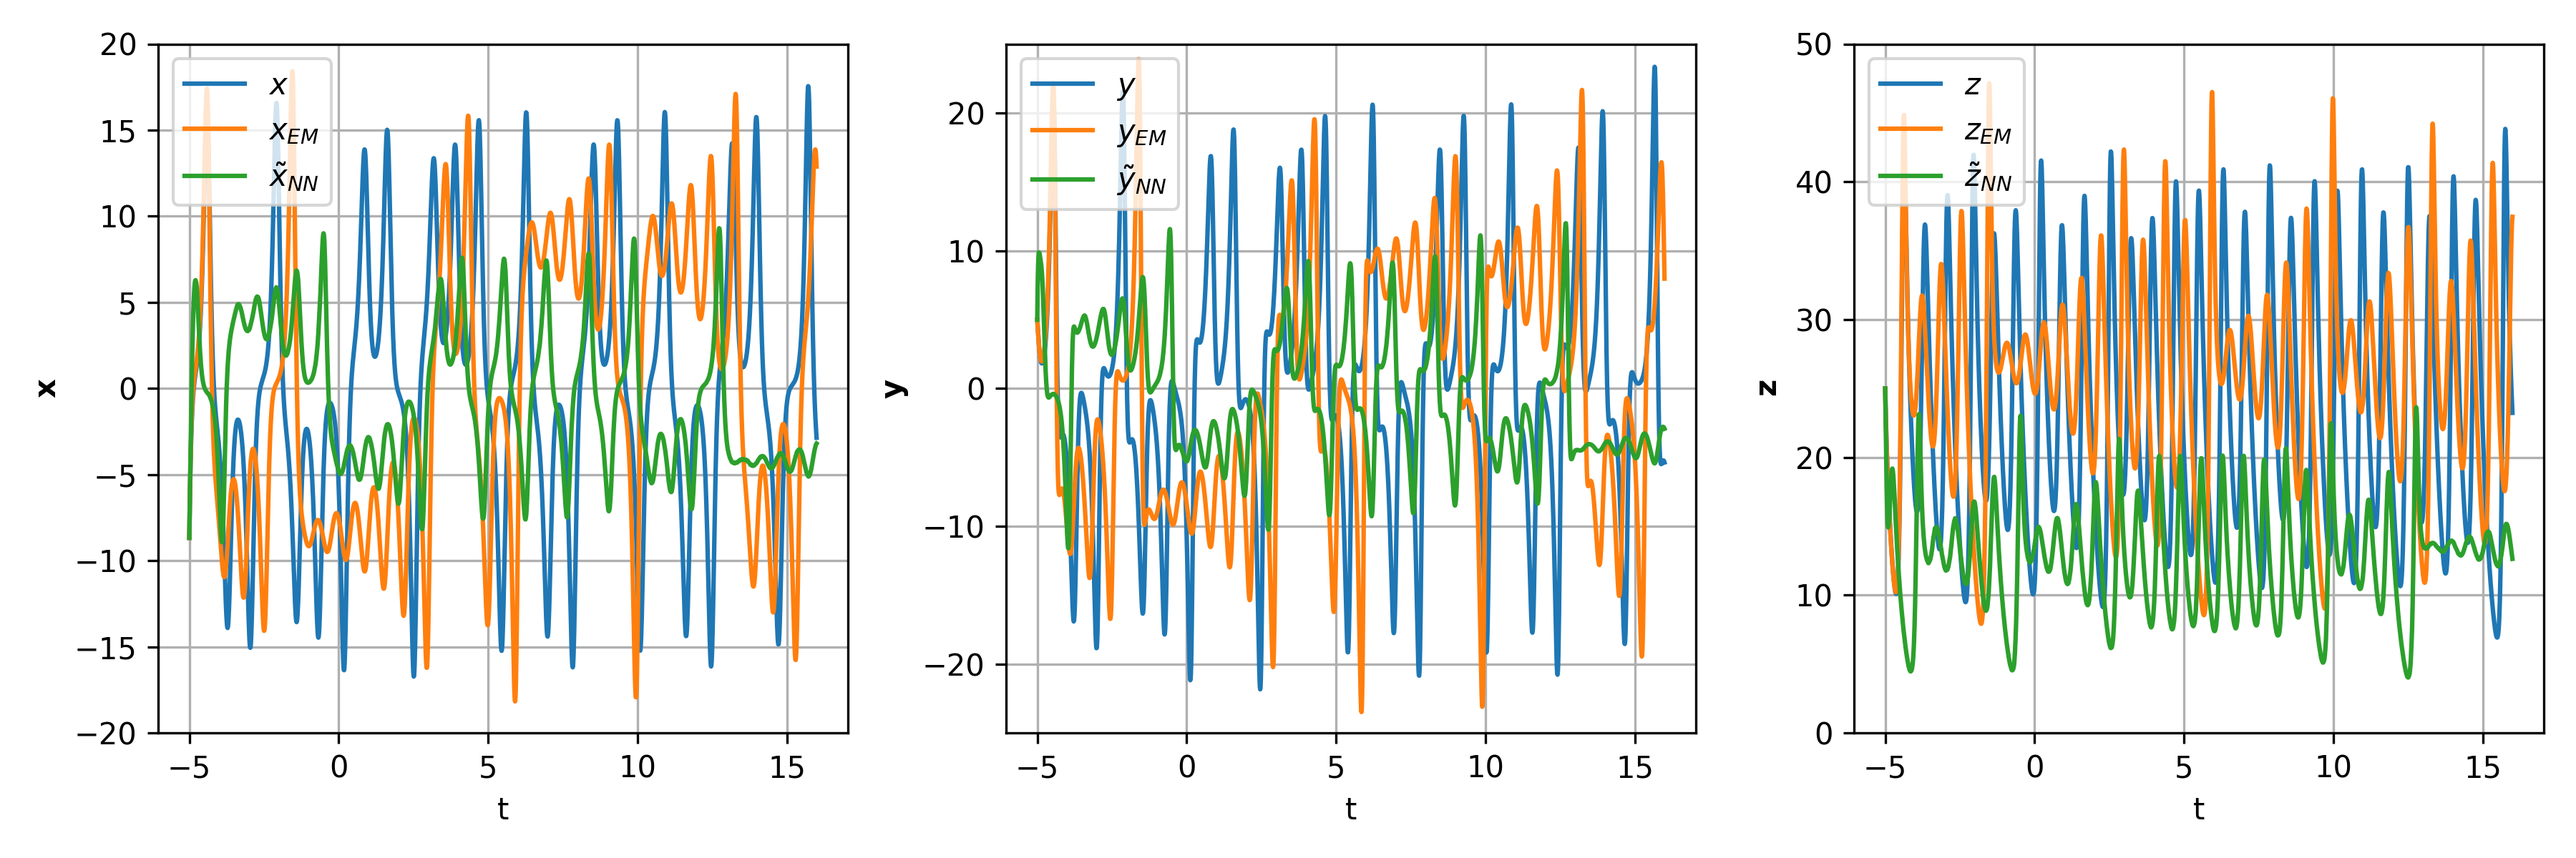
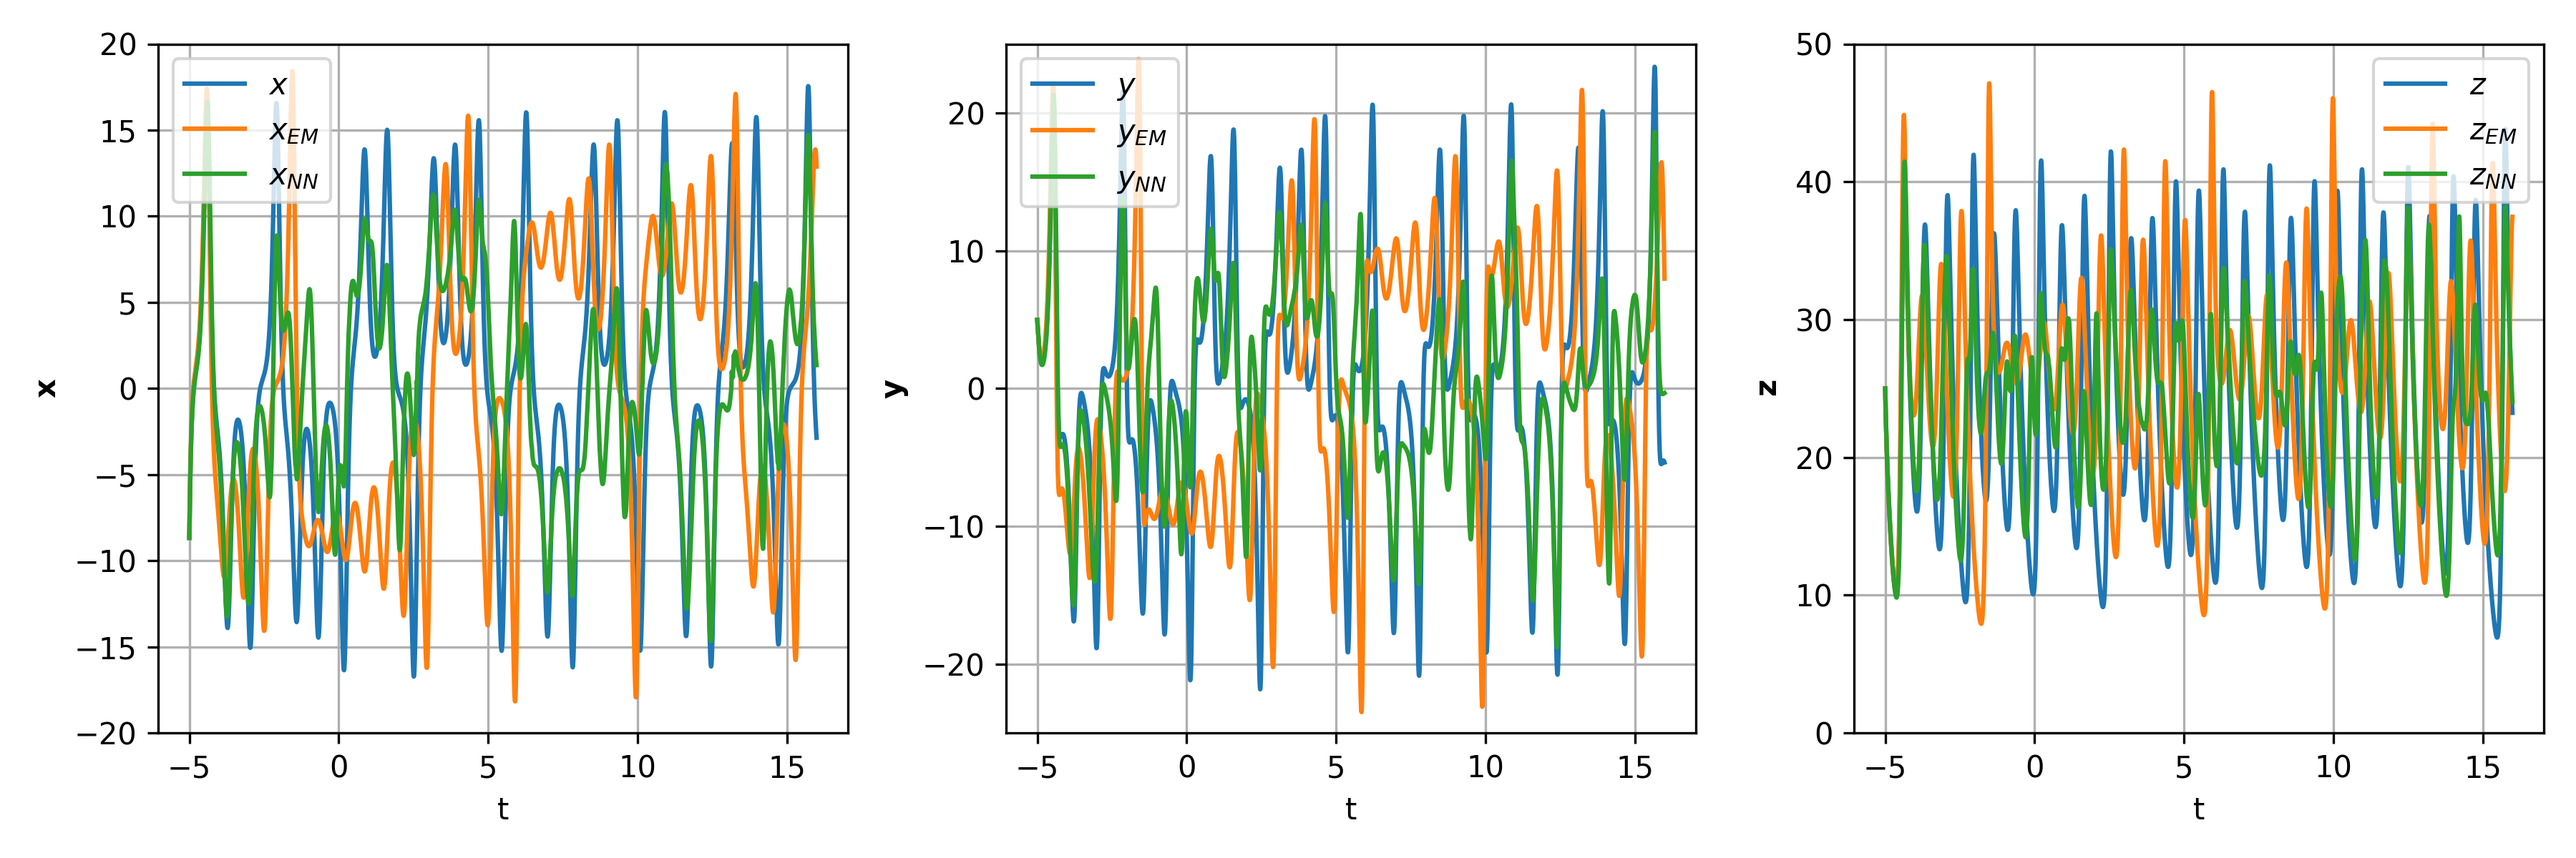
updated sample paths

Changed region(s): [[0.7156, 0.0617, 0.9956, 0.7708], [0.0622, 0.185, 0.3422, 0.7092], [0.4044, 0.185, 0.6533, 0.7092]]

diff --git a/diffusion-train-network.py b/diffusion-train-network.py
@@ -64,8 +64,8 @@ t = lorenz['t']
 dt = t[1]-t[0]
 
 # SPECIFY IF YOU WANT TO TRAIN AND SAVE THE RESULTS
-train = False
-save = False
+train = True
+save = True
 
 ######################### Network parameters ##################################
 
@@ -78,7 +78,7 @@ ACTIVATIONS = tf.nn.relu #Activation function
 VALIDATION_SPLIT = .2 # 80% for training, 20% for testing
 BATCH_SIZE = 128
 LEARNING_RATE = 1e-2
-N_EPOCHS = 100
+N_EPOCHS = 50
 
 # use diagonal sigma matrix
 diffusivity_type = "diagonal"
@@ -154,6 +154,17 @@ if train:
     plt.savefig('training.png')
     plt.show()
 
+    # plt.figure(17,figsize=(6,4))
+    # plt.title(r"Diagonal $\Sigma$")
+    # plt.plot(hist.history["accuracy"], label='Training')
+    # plt.plot(hist.history["val_accuracy"], label='Validation')
+    # plt.ylim([np.min(hist.history["accuracy"])*1.1, np.max(hist.history["accuracy"])])
+    # plt.xlabel("Epoch")
+    # plt.ylabel("Accuracy")
+    # plt.legend()
+    # plt.savefig('training-accuracy.png')
+    # plt.show()
+
 file_path = 'Trained_Dietrich'
 file_path += '/' + diffusivity_type + '/'
 file_path += f'HL{n_layers}_'
@@ -188,9 +199,14 @@ beta = 8/3
 x_EM = np.zeros((N,3))
 xtilde = np.zeros((N,3))
 xtilde_NN = np.zeros((N,3))
+x_NN = np.zeros((N,3))
+x_alpha = np.zeros((N,3))
 x_EM[0,:] = [-8.67139571762,4.98065219709,25]
-xtilde[0,:] = [-8.67139571762,4.98065219709,25]
-xtilde_NN[0,:] = [-8.67139571762,4.98065219709,25]
+x_NN[0,:] = [-8.67139571762,4.98065219709,25]
+x_alpha[0,:] = [-8.67139571762,4.98065219709,25]
+
+xtilde[0,:] = epsilon*np.random.randn(3)
+xtilde_NN[0,:] = xtilde[0,:]
 
 # time integration
 for n in range(N-1):
@@ -200,11 +216,14 @@ for n in range(N-1):
     # Euler-Maruyama method
     x_EM[n+1,:] = x_EM[n,:] + f(x_EM[n,:])*dt
 
-    # compare naive model to NN
-    alpha = 1.2
-    xtilde[n+1,:] = xtilde[n,:] + np.matmul(dfdx(x_n[n,:]),xtilde[n,:])*dt + naive_model(alpha)*dW[n]
+    # alpha method
+    alpha = 1.0
+    xtilde[n+1,:] = xtilde[n,:] + np.matmul(dfdx(x_alpha[n,:]),xtilde[n,:])*dt + naive_model(alpha)*dW[n]
+    x_alpha[n+1,:] = xh[n+1,:] + xtilde[n+1,:]
 
-    xtilde_NN[n+1,:] = sde_i.sample_tilde_xn1(xtilde_NN[n,:], xtilde_NN[n,:], dt, jac_par, diffusivity_type)
+    # NN method
+    xtilde_NN[n+1,:] = sde_i.sample_tilde_xn1(x_NN[n,:], xtilde_NN[n,:], dt, jac_par, diffusivity_type)
+    x_NN[n+1,:] = xh[n+1,:] + xtilde_NN[n+1,:]
 
 
 plt.figure(3,figsize=(12,4))
@@ -273,7 +292,7 @@ plt.figure(22,figsize=(12,4))
 plt.subplot(1,3,1)
 plt.plot(t,xh[:,0],label=r"${x}$")
 plt.plot(t,x_EM[:,0],label=r"${x}_{EM}$")
-plt.plot(t,xtilde_NN[:,0],label=r"$\tilde{x}_{NN}$")
+plt.plot(t,x_NN[:,0],label=r"${x}_{NN}$")
 #plt.plot(t,xtilde[:,0],label=r"$\tilde{x}_{\alpha}$")
 plt.legend()
 plt.xlabel("t")
@@ -284,7 +303,7 @@ plt.grid()
 plt.subplot(1,3,2)
 plt.plot(t,xh[:,1],label=r"${y}$")
 plt.plot(t,x_EM[:,1],label=r"${y}_{EM}$")
-plt.plot(t,xtilde_NN[:,1],label=r"$\tilde{y}_{NN}$")
+plt.plot(t,x_NN[:,1],label=r"${y}_{NN}$")
 #plt.plot(t,xtilde[:,1],label=r"$\tilde{y}_{\alpha}$")
 plt.legend()
 plt.xlabel("t")
@@ -295,7 +314,7 @@ plt.grid()
 plt.subplot(1,3,3)
 plt.plot(t,xh[:,2],label=r"${z}$")
 plt.plot(t,x_EM[:,2],label=r"${z}_{EM}$")
-plt.plot(t,xtilde_NN[:,2],label=r"$\tilde{z}_{NN}$")
+plt.plot(t,x_NN[:,2],label=r"${z}_{NN}$")
 #plt.plot(t,xtilde[:,2],label=r"$\tilde{z}_{\alpha}$")
 plt.xlabel("t")
 plt.ylabel(r"${\mathbf{z}}$")
